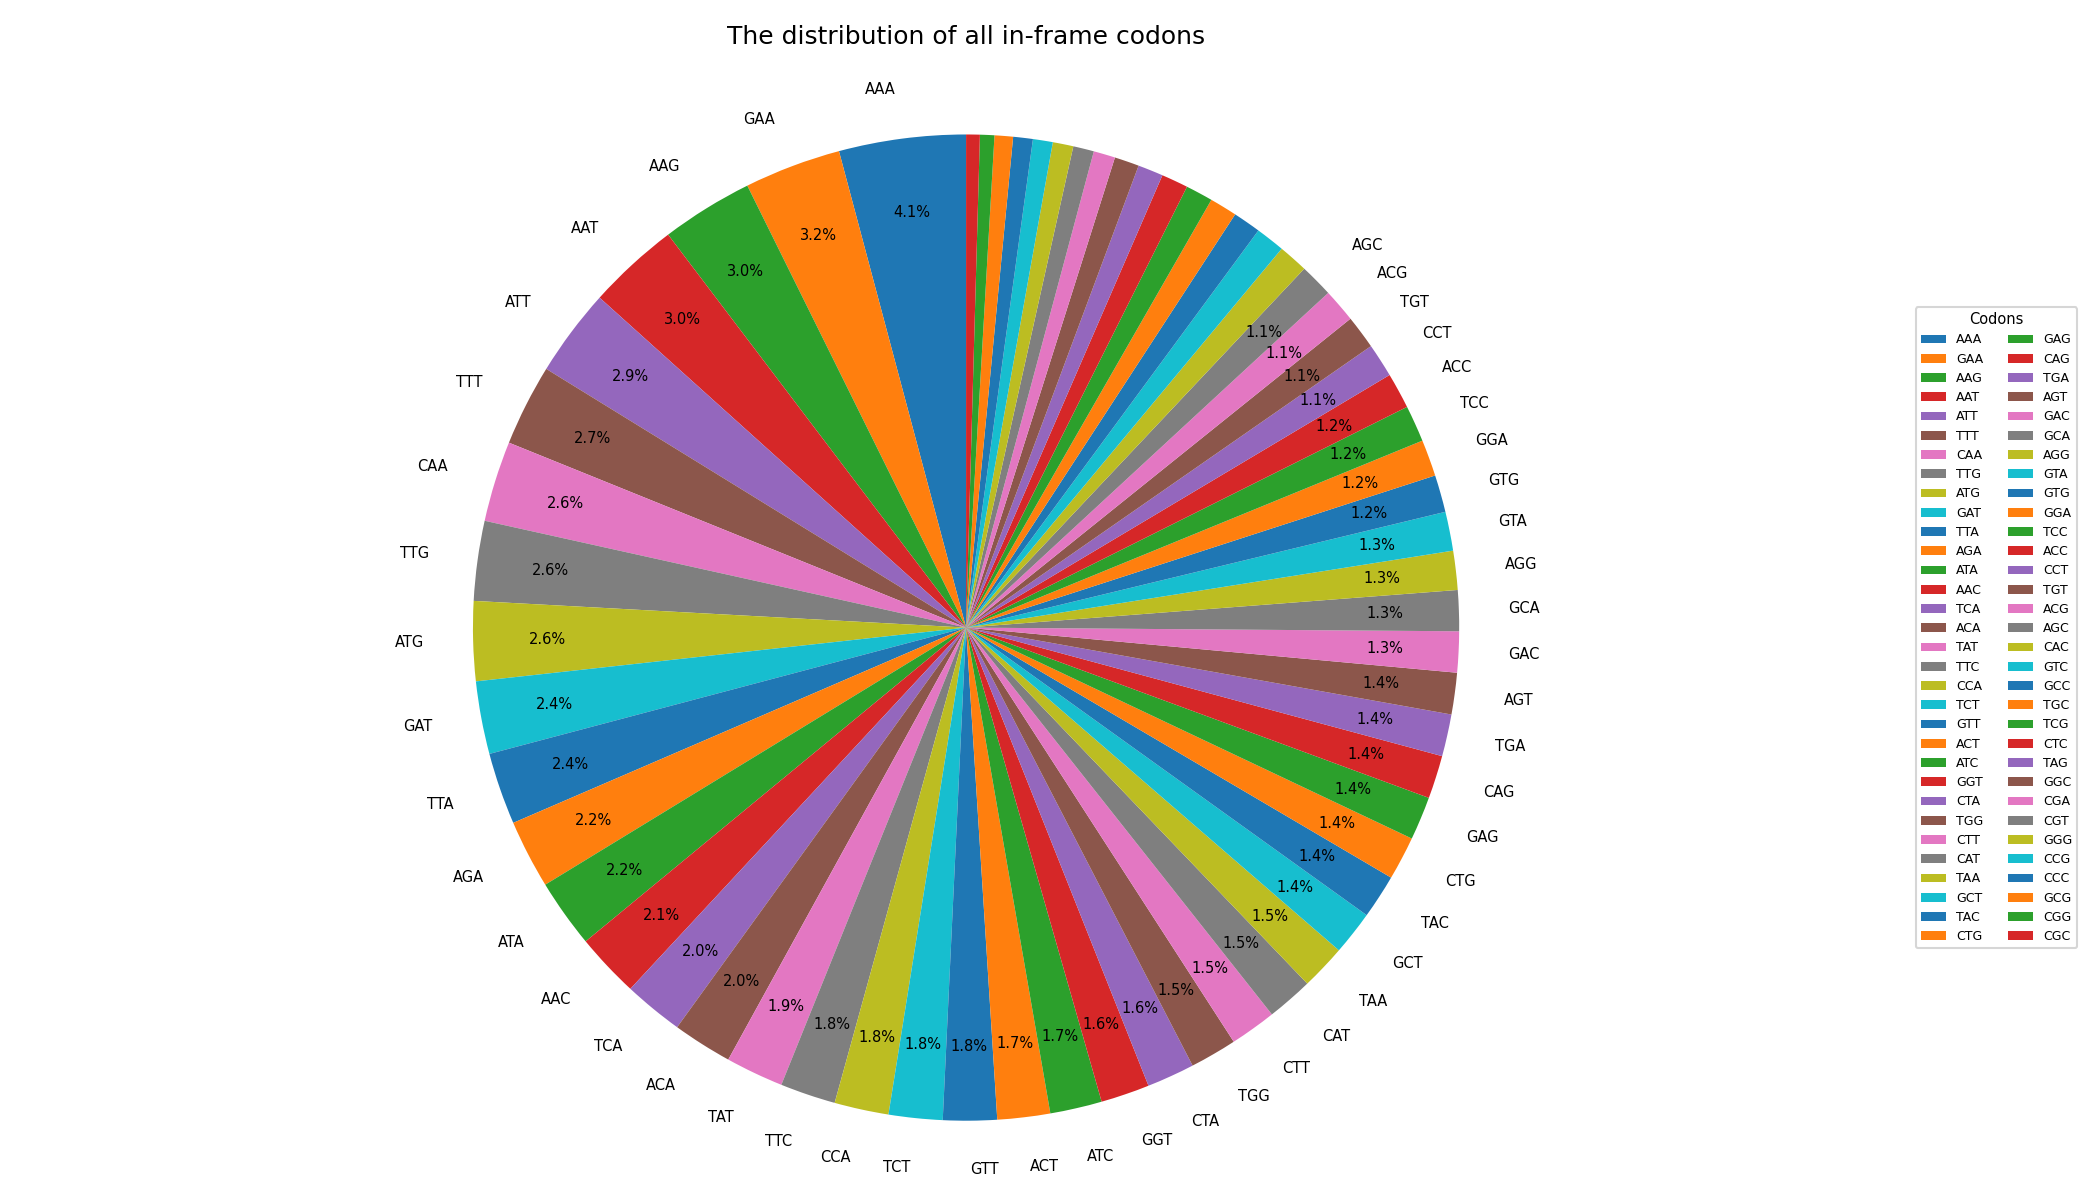
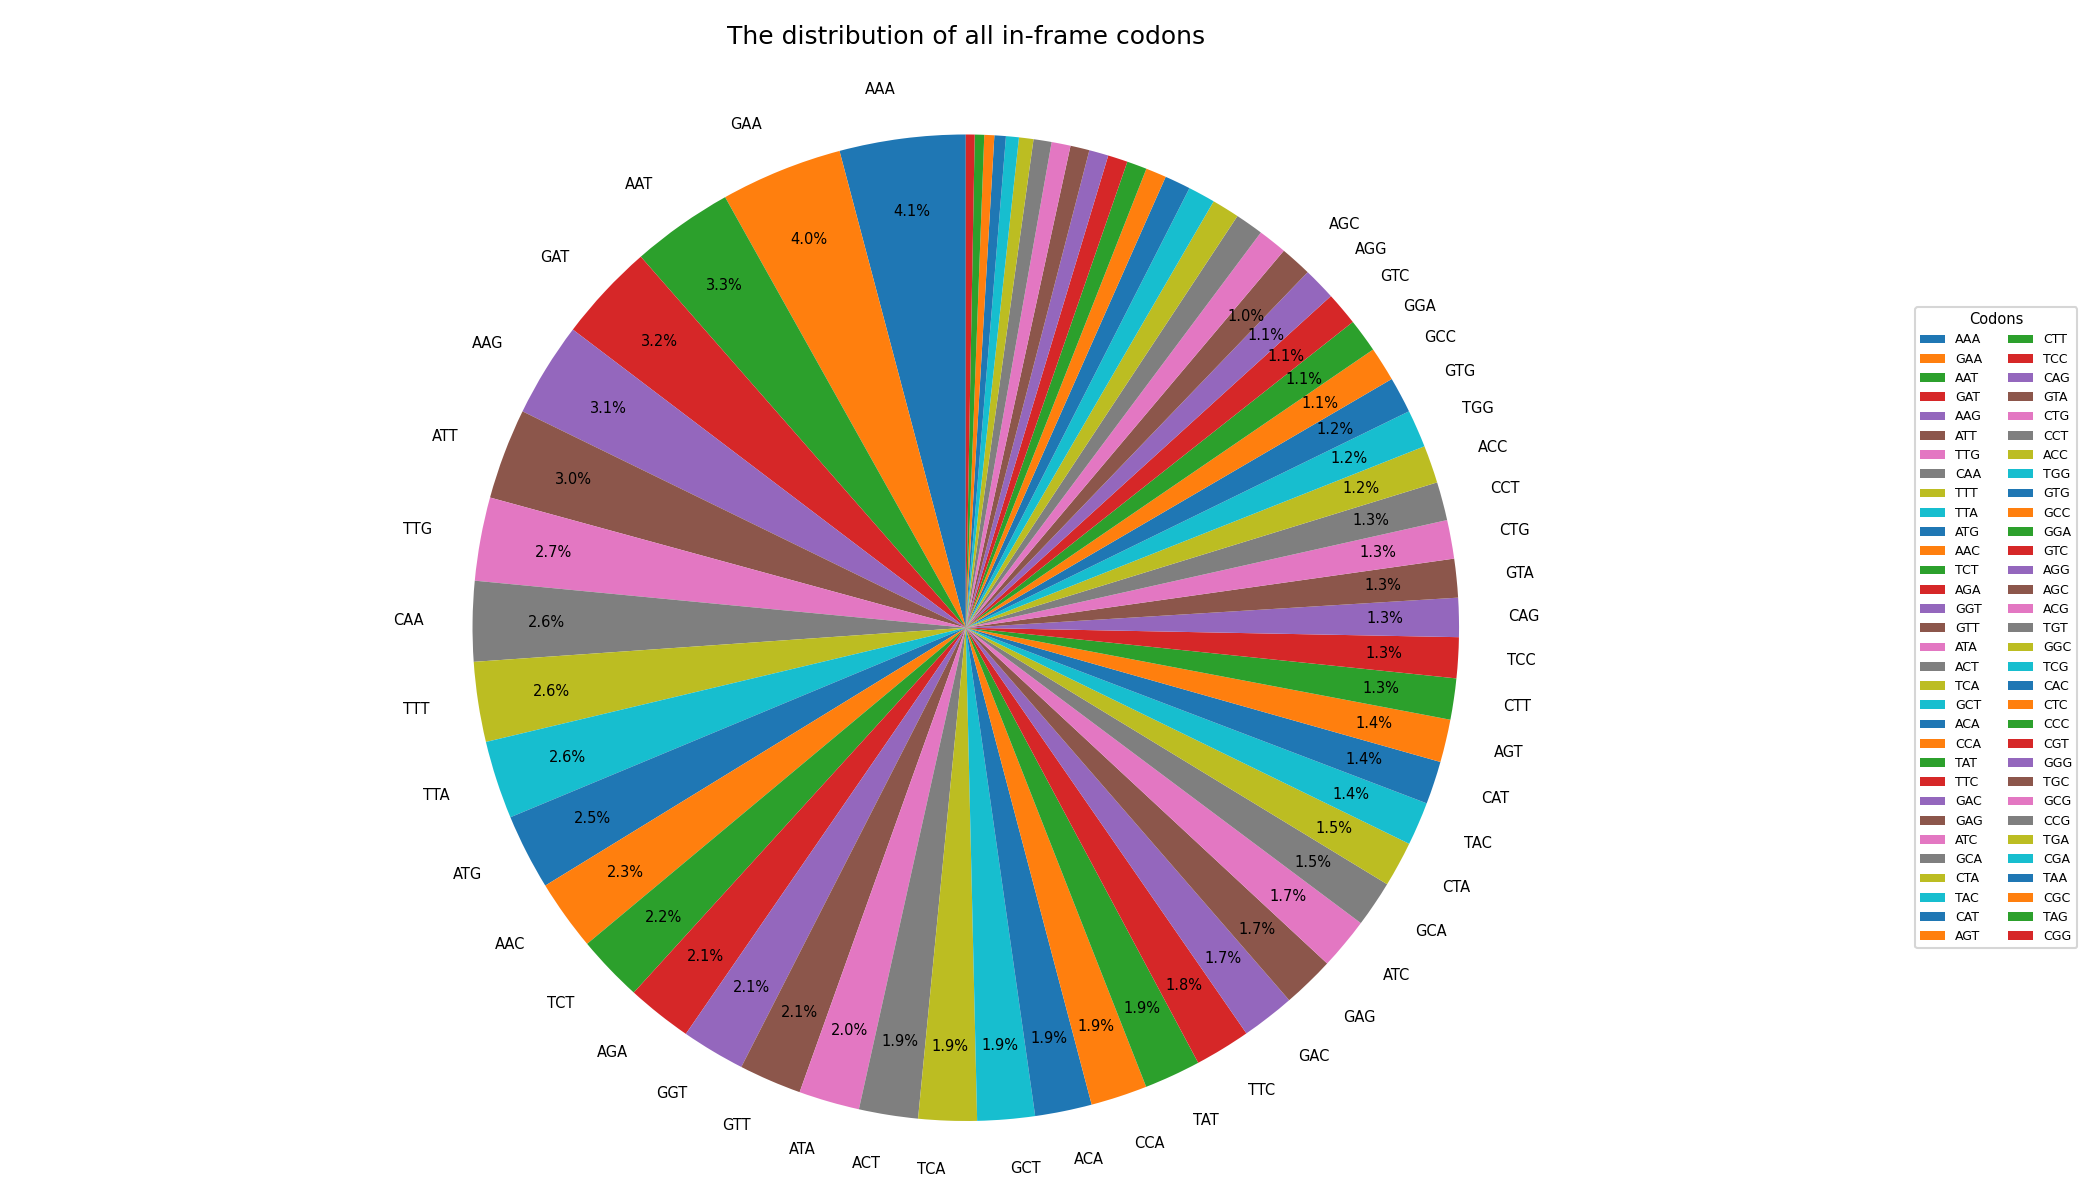
add break in find longest orf, put if longest orf into if state yes

diff --git a/Practical 7/count_codons.py b/Practical 7/count_codons.py
@@ -1,81 +1,82 @@
 stop = input ("please input one of three possible stop codons (TAA/TAG/TGA): ")
 import re
 from collections import Counter
-infile = open ('stop_genes.fa','r')
-codons = []
-def find_longest_orf(seq, stop_codon):
-    longest = ""
-    for frame in range(3):
-        i = frame
-        while i <= len(seq) - 3:
-            if seq[i:i+3] == 'ATG':
-                j = i + 3
-                while j <= len(seq) - 3:
-                    if seq[j:j+3] == stop_codon:
-                        orf = seq[i:j+3] 
-                        if len(orf) > len(longest):
-                            longest = orf
-                    j += 3
-            i += 3
-    return longest
-def show_pct(pct):
-    return f'{pct:.1f}%' if pct > 1 else ''
-longest_orf = ''
-for line in infile:
-    if line.startswith('>'):
-        if re.search(stop,line):
-            state = 'yes'
+with open('stop_genes.fa','r') as infile:
+    codons = []
+    def find_longest_orf(seq, stop_codon):
+        longest = ""
+        for frame in range(3):
+            i = frame
+            while i <= len(seq) - 3:
+                if seq[i:i+3] == 'ATG':
+                    j = i + 3
+                    while j <= len(seq) - 3:
+                        if seq[j:j+3] == stop_codon:
+                            orf = seq[i:j+3] 
+                            if len(orf) > len(longest):
+                                longest = orf
+                            break
+                        j += 3
+                i += 3
+        return longest
+    def show_pct(pct):
+        return f'{pct:.1f}%' if pct > 1 else ''
+    longest_orf = ''
+    for line in infile:
+        if line.startswith('>'):
+            if re.search(stop,line):
+                state = 'yes'
+            else:
+                state = 'no'
         else:
-            state = 'no'
+            if state == 'yes':
+                longest_orf = find_longest_orf(line,stop)
+                if longest_orf:
+                    for i in range (0,len(longest_orf),3):
+                        codon = longest_orf[i:i+3]
+                        codons.append(codon)
+            else:
+                longest_orf = ''
+    if codons:
+        count = Counter(codons)
+        for codon,cnt in count.most_common():
+            print(f"{codon}:{cnt}")
+        sort = count.most_common()
+        codon_list = [item[0] for item in sort]
+        count_list = [item[1] for item in sort]
+        import matplotlib.pyplot as plt
+        total = sum(count_list)
+        labels_filtered = []
+        for codon, cnt in zip(codon_list, count_list):
+            pct = cnt / total * 100
+            if pct > 1:
+                labels_filtered.append(codon)
+            else:
+                labels_filtered.append('')
+        sizes = count_list
+        plt.figure(figsize=(14, 8))
+        wedges, texts, autotexts = plt.pie(
+            sizes,
+            labels=labels_filtered,            
+            autopct=show_pct,
+            startangle=90,
+            pctdistance=0.85,       
+            textprops={'fontsize': 7}  
+        )
+        plt.legend(
+            wedges,
+            codon_list,
+            title="Codons",
+            loc="center left",
+            bbox_to_anchor=(1, 0, 0.5, 1),
+            ncol=2,
+            fontsize=6,
+            title_fontsize=7
+        )
+        plt.axis('equal')
+        plt.title("The distribution of all in-frame codons", fontsize=12,pad=20)
+        plt.tight_layout()          
+        plt.savefig('codon_usage.png', dpi=150)  
+        plt.close()
     else:
-        if state == 'yes':
-            longest_orf = find_longest_orf(line,stop)
-        else:
-            longest_orf = ''
-    if longest_orf:
-        for i in range (0,len(longest_orf),3):
-            codon = longest_orf[i:i+3]
-            codons.append(codon)
-if codons:
-    count = Counter(codons)
-    for codon,cnt in count.most_common():
-        print(f"{codon}:{cnt}")
-    sort = count.most_common()
-    codon_list = [item[0] for item in sort]
-    count_list = [item[1] for item in sort]
-    import matplotlib.pyplot as plt
-    total = sum(count_list)
-    labels_filtered = []
-    for codon, cnt in zip(codon_list, count_list):
-        pct = cnt / total * 100
-        if pct > 1:
-            labels_filtered.append(codon)
-        else:
-            labels_filtered.append('')
-    sizes = count_list
-    plt.figure(figsize=(14, 8))
-    wedges, texts, autotexts = plt.pie(
-        sizes,
-        labels=labels_filtered,            
-        autopct=show_pct,
-        startangle=90,
-        pctdistance=0.85,       
-        textprops={'fontsize': 7}  
-    )
-    plt.legend(
-        wedges,
-        codon_list,
-        title="Codons",
-        loc="center left",
-        bbox_to_anchor=(1, 0, 0.5, 1),
-        ncol=2,
-        fontsize=6,
-        title_fontsize=7
-    )
-    plt.axis('equal')
-    plt.title("The distribution of all in-frame codons", fontsize=12,pad=20)
-    plt.tight_layout()          
-    plt.savefig('codon_usage.png', dpi=150)  
-    plt.close()
-else:
-    print("can't find ORF")
+        print("can't find ORF")
